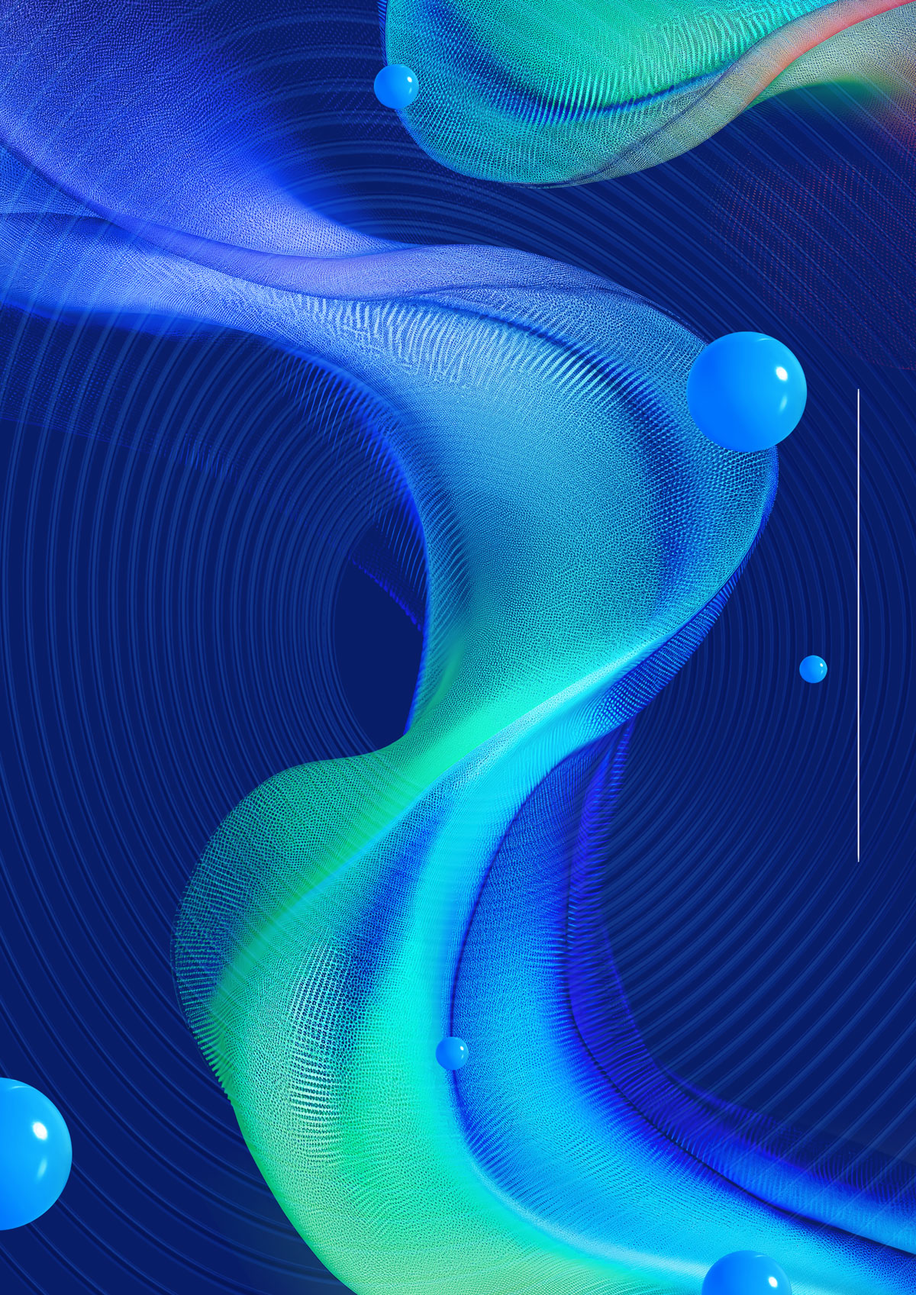
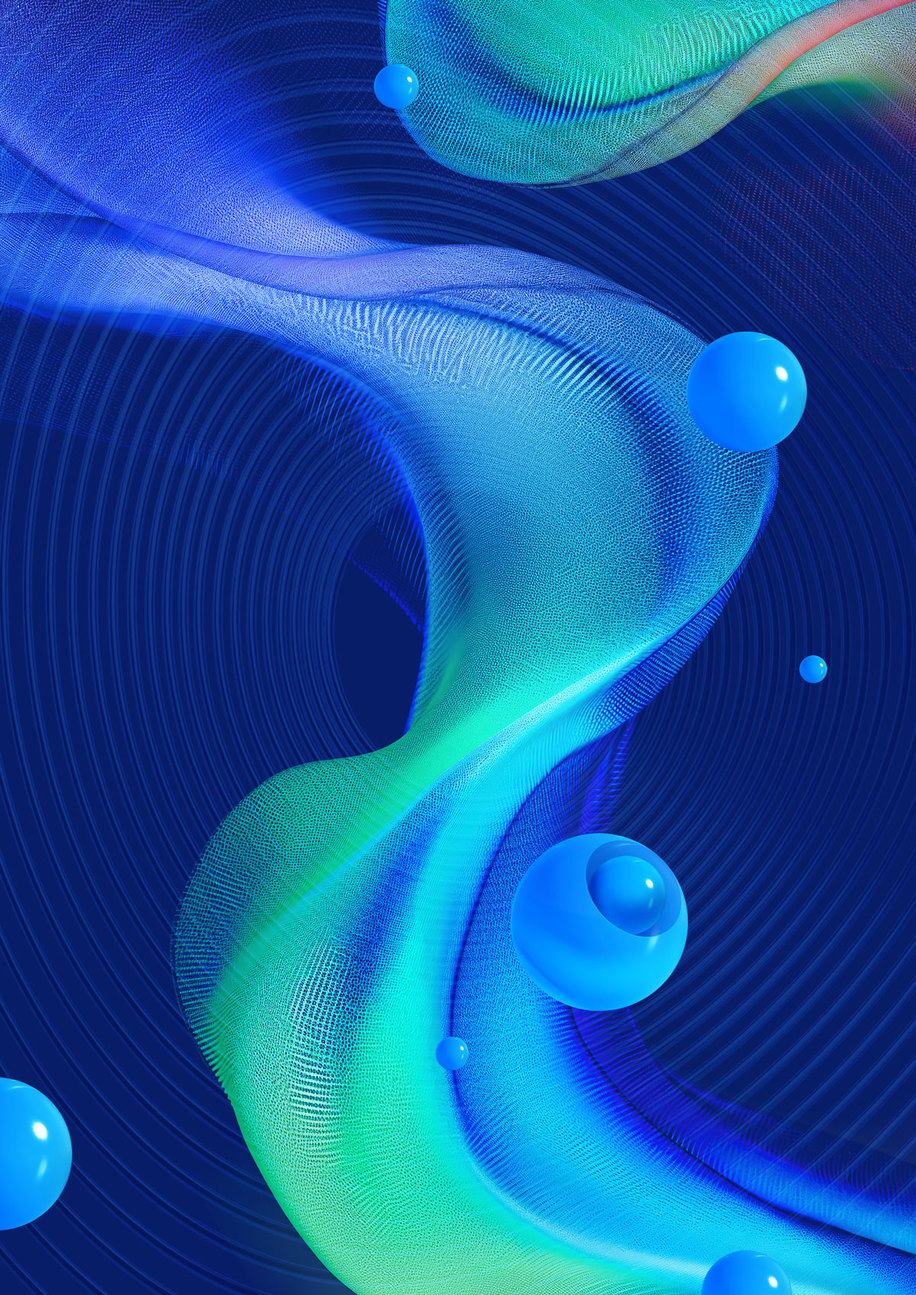
.

Changed region(s): [[0.555, 0.6246, 0.7708, 0.7808]]

diff --git a/html/충청권/pavilion-chungcheong.html b/html/충청권/pavilion-chungcheong.html
@@ -195,16 +195,21 @@
                 display: flex;
                 align-items: center;
                 gap: 1.6rem;
+                font-size: 2.2rem;
+                font-family: 'Hiikr', sans-serif, system-ui;
             }
-            .poster-side-v-badge.pos-top { top: 4.8rem; font-size: 1.8rem; color: #e0f2fe; }
-            .poster-side-v-badge.pos-bot { bottom: 8.0rem; font-size: 1.8rem; color: #fde047; }
+            .poster-side-v-badge.pos-top { top: 4.8rem;  color: #e0f2fe; }
+            .poster-side-v-badge.pos-bot { bottom: 12rem; color: #fde047; }
             .poster-side-v-badge::after {
                 content: '';
                 display: block;
                 width: 1px;
-                height: 6.0rem;
+                height: 10rem;
                 background-color: rgba(255, 255, 255, 0.4);
                 margin-top: 1.0rem;
+            }
+            .poster-side-v-badge.pos-bot::after {
+                content: none;
             }
 
             /* 포스터 중앙 메인 타이틀 영역 */
@@ -244,7 +249,7 @@
             .poster-en-tit {
                 font-size: 1.8rem;
                 font-weight: 600;
-                color: #bae6fd;
+                color: #fff;
                 letter-spacing: 0.02em;
                 margin-bottom: 3.6rem;
             }
@@ -288,7 +293,7 @@
                 flex-wrap: wrap;
             }
             .poster-bottom-hosts .host-lbl {
-                font-size: 1.35rem;
+                font-size: 1.2rem;
                 font-weight: 800;
                 color: #ffffff;
                 background: rgba(0, 0, 0, 0.35);
@@ -309,6 +314,9 @@
                 align-items: center;
                 gap: 0.4rem;
             }
+            .host-names-list span img {
+                max-height: 3rem;
+            }
 
             /* 2. 기획서 필수 명세 화이트 안내 보드 */
             .pav-white-guide-board { background-color: #ffffff; border: 1px solid #e2e8f0; border-radius: 2.4rem; padding: 4.8rem 4.0rem; box-shadow: 0 4px 20px rgba(0, 0, 0, 0.03); }
@@ -317,6 +325,9 @@
             .p-deco-dots { color: #cbd5e1; font-size: 1.4rem; letter-spacing: 0.2em; }
             .p-guide-main-tit { font-size: 2.2rem; font-weight: 800; color: #111827; margin: 0; letter-spacing: -0.02em; word-break: keep-all; }
             .p-title-blue-line { width: 12.0rem; height: 3px; background-color: #0284c7; margin: 1.2rem auto 0; border-radius: 2px; }
+
+            /* 3단 카드 */
+            .pav-info-grid-3 { display: grid; grid-template-columns: repeat(3, 1fr); gap: 2.0rem; }
 
             /* 4단 카드 그리드 */
             .pav-info-grid-4 { display: grid; grid-template-columns: repeat(4, 1fr); gap: 2.0rem; }
@@ -416,12 +427,12 @@
                     <div class="poster-bottom-hosts">
                         <span class="host-lbl">주최</span>
                         <div class="host-names-list">
-                            <span>고용노동부</span>
-                            <span>충청북도</span>
-                            <span>대전광역시</span>
-                            <span>충청남도</span>
-                            <span>세종특별자치시</span>
-                            <span>충북지방중소벤처기업청</span>
+                            <span><img src="./images/tlogo_01.png" alt="고용노동부"></span>
+                            <span><img src="./images/tlogo_02.png" alt="충청북도"></span>
+                            <span><img src="./images/tlogo_03.png" alt="대전광역시"></span>
+                            <span><img src="./images/tlogo_04.png" alt="충청남도"></span>
+                            <span><img src="./images/tlogo_05.png" alt="세종특별자치시"></span>
+                            <span><img src="./images/tlogo_06.png" alt="충북지방중소벤처기업청"></span>
                         </div>
                     </div>
                 </div>
@@ -431,18 +442,18 @@
                     <div class="p-guide-head tct">
                         <div class="p-guide-title-row">
                             <span class="p-deco-dots">•••••••••••</span>
-                            <h2 class="p-guide-main-tit">2026 충청북도 &amp; 충청권 내일이음 취업박람회 안내</h2>
+                            <h2 class="p-guide-main-tit">주요 프로그램</h2>
                             <span class="p-deco-dots">•••••••••••</span>
                         </div>
                         <div class="p-title-blue-line"></div>
                     </div>
 
                     <!-- 기본 정보 4단 그리드 카드 -->
-                    <div class="pav-info-grid-4 mt-3">
+                    <div class="pav-info-grid-3 mt-3">
                         <div class="p-grid-card">
                             <div class="card-icon-circle ic-blue"><i data-lucide="calendar"></i></div>
-                            <strong class="card-tit">행사일시</strong>
-                            <p class="card-desc">2026. 10. 16(금)<br>10:00 ~ 17:00 (1일간)</p>
+                            <strong class="card-tit">취업 역량상담</strong>
+                            <p class="card-desc">이력서, 자기소개서 컨설팅 및<br> 전문 직업상담사의 맞춤형 취업 상담</p>
                         </div>
 
                         <div class="p-grid-card">

diff --git a/html/충청권/js/style copy.js b/html/충청권/js/style copy.js
@@ -88,8 +88,8 @@ document.addEventListener('DOMContentLoaded', () => {
   });
 
   // 3. 임시 공유하기 URL 자동 세팅
-  /*const shareInput = document.getElementById('shareCurrentUrl');
-  if (shareInput) shareInput.value = window.location.href;*/
+  const shareInput = document.getElementById('shareCurrentUrl');
+  if (shareInput) shareInput.value = window.location.href;
 
   // 4. 임시 입사지원 단계 전환 스크립트
   const modalApply = document.getElementById('modalApply');
